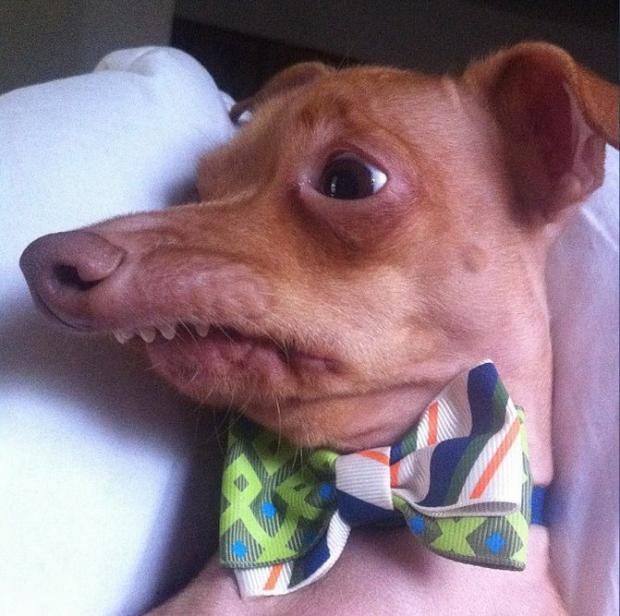
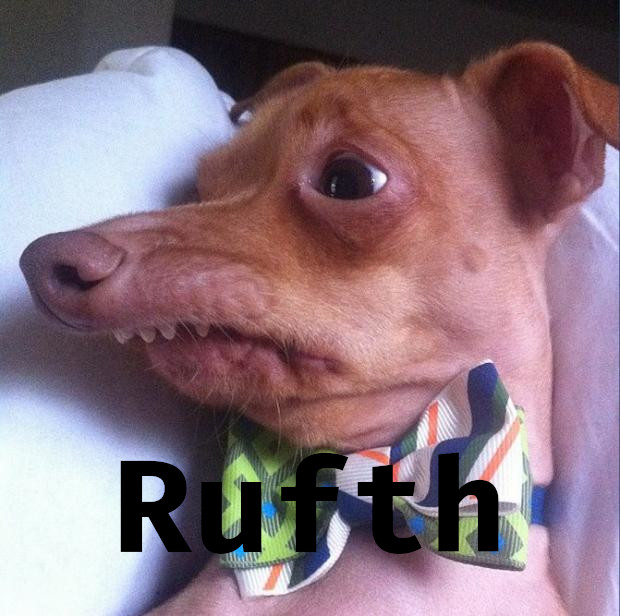
fixed the image to not rely on html tricks

Changed region(s): [[0.1839, 0.7403, 0.429, 0.9253], [0.4597, 0.7094, 0.6742, 0.8945], [0.7048, 0.7094, 0.8274, 0.8945]]

diff --git a/readme.md b/readme.md
@@ -1,8 +1,4 @@
 # RUFTH 
-<div style="position: relative; width: 400px;">
-  <img src="media/tuna-the-dog.jpg" alt="Phteven / Tuna the Dog" width="400" style="display: block;">
-  <span style="position: absolute; top: 50%; left: 50%; transform: translate(-50%, 100%); color: black; font-size: 72px; font-weight: bold; text-shadow: 2px 2px 10px white;">Rufth</span>
-</div>
-<br>
+![Rufth-Mascot](media/tuna-the-dog.jpg)
 
 **The ultimate toy-language Forth+(TUI IDE) in Rust+Ratatui**
